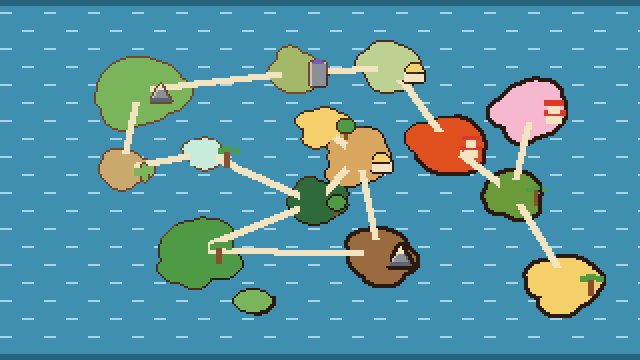
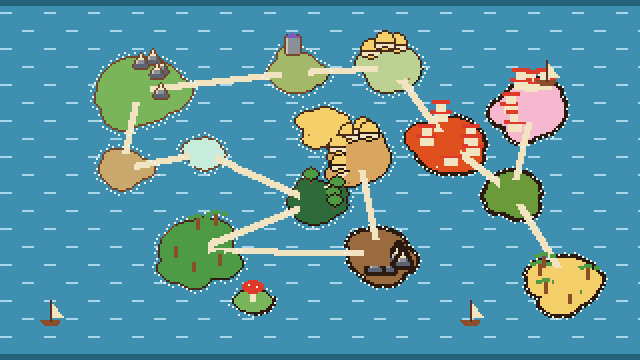
Art: world map second pass (foam, flecks, glyphs, hub mushroom, boats)
Claude-Session: https://claude.ai/code/session_011wwocCUG4eugkRARemZkM7

diff --git a/claude/art-delivery-report.md b/claude/art-delivery-report.md
@@ -20,7 +20,7 @@ Everything in `claude/art-spec-overhaul.md` is drawn, except Trek crew extras an
 - **Gnome layers** are 64x80 each. The 1 px black border and umber outline are in the `shadow` layer under everything, so beard and hat tint filters keep working. Check the stack order matches `gnome_avatar()`.
 - **Shop interiors:** `shop-general` is 480x120 (handoff), the other four shops are 480x270 (spec).
 - **Region mask** uses a dark `#101010` sea, not black.
-- **Second pass done** on the 7 new stage backdrops, `banner-desert/SA/ESA/CSA` and the 16 Trek backdrops (more layers, props, depth). Third pass: every banner got a far treeline or roofline, tufts, corner framing props and a second tier of props (wells, boats, fences, llamas, lamps and so on); Trek camp, fight, path and boss scenes got set dressing; rest stops got clouds, barrels, bushes and flowers. Fourth pass: the 5 homes and 4 shops got wall art, furniture, hanging bundles and rugs; the 14 region maps got a river with bridges, a lake, stitched zone borders, grass texture, a bigger market village, stone outcrops and more landscape glyphs. (enemy bugs and quadrupeds got a second pass, then a third: every figure is now auto-scaled to fill its canvas, with thick horns and antlers, a new moth, tidier golem and wisp, a lean long-legged heron, and a plain apron; first pass: ant, beetle, wasp and moth bodies; canid, feline, rodent, bear, ungulate and hare builds; far-side legs, enamel gloss, base details, hands and noses on folk).
+- **Second pass done** on the 7 new stage backdrops, `banner-desert/SA/ESA/CSA` and the 16 Trek backdrops (more layers, props, depth). Third pass: every banner got a far treeline or roofline, tufts, corner framing props and a second tier of props (wells, boats, fences, llamas, lamps and so on); Trek camp, fight, path and boss scenes got set dressing; rest stops got clouds, barrels, bushes and flowers. Fourth pass: the 5 homes and 4 shops got wall art, furniture, hanging bundles and rugs; the 14 region maps got a river with bridges, a lake, stitched zone borders, grass texture, a bigger market village, stone outcrops and more landscape glyphs. The world map also got coast foam, ground flecks, landscape glyphs in every region, a mushroom on the Mossbottom hub island and three sailboats (region shapes and the mask are unchanged). (enemy bugs and quadrupeds got a second pass, then a third: every figure is now auto-scaled to fill its canvas, with thick horns and antlers, a new moth, tidier golem and wisp, a lean long-legged heron, and a plain apron; first pass: ant, beetle, wasp and moth bodies; canid, feline, rodent, bear, ungulate and hare builds; far-side legs, enamel gloss, base details, hands and noses on folk).
 - **Checks:** every file is the exact size, alpha 0/255, under its colour cap, and scenes have no black. The sprite check reports `badBlack=1` on about 100 miniatures: one black border pixel sits in a 1 px gap inside the silhouette (it is a border round a hole, as Part E asks). Harmless.
 - **`.aseprite` files:** `opus-test-run/aseprite/` (layered: sky, far, ground, objects, detail, fx, border). Scripts: `opus-test-run/scripts/` (test set), `scripts/batch/` (stages, banners, Trek, interiors, maps, hoop kit and fx), `scripts/minis/` (all miniatures). Rebuild with Aseprite 1.3.18 headless: `GV_ROOT=<repo>/ aseprite -b --script <script>.lua`, then `sh opus-test-run/scripts/batch/deploy.sh` copies PNGs to the game paths.
 - **Not wired in game yet** (as the handoff says): world and region maps, rest stop interiors, camp and boss scenes, fx, `hoop`, `pin`, `felt-*`.
